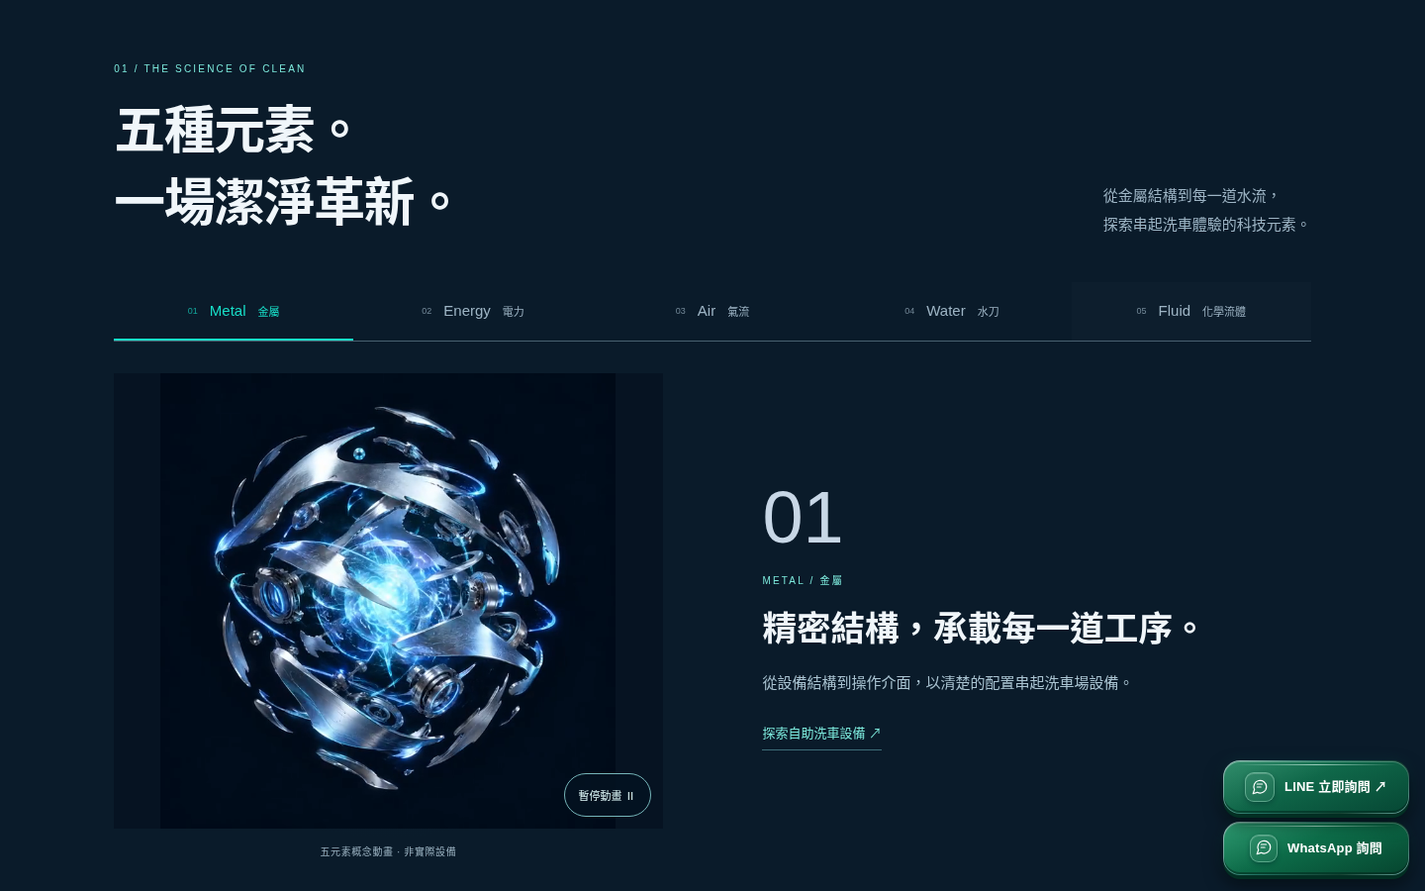
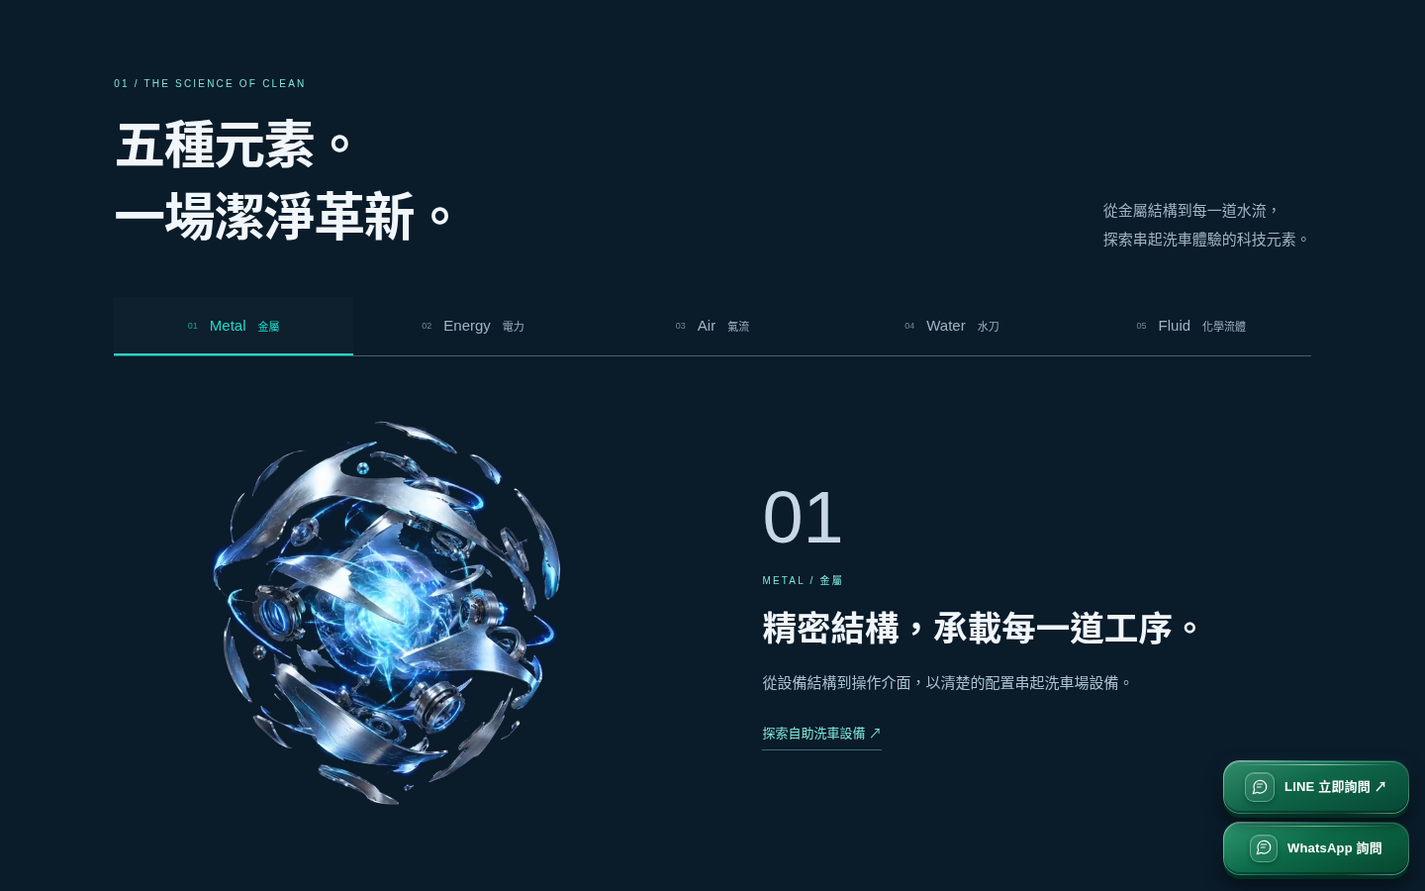
Blend element video backgrounds and remove captions and playback buttons

diff --git a/shinox-v2-site/index.html b/shinox-v2-site/index.html
@@ -1,6 +1,6 @@
 <!DOCTYPE html>
 
-<html lang="zh-Hant-TW"><head><meta charset="utf-8"/><meta content="width=device-width,initial-scale=1" name="viewport"/><meta content="noindex,nofollow" name="robots"/><link href="index.html" hreflang="zh-Hant" rel="alternate"/><link href="en/index.html" hreflang="en" rel="alternate"/><meta content="#061322" name="theme-color"/><meta content="ShinoX 洗諾克斯洗車系統：探索自助洗車設備、B2 與 M9 洗車設備、周邊設備及洗車場建置方案。聯絡台灣與海外設備諮詢。" name="description"/><meta content="ShinoX 洗諾克斯｜科技驅動潔淨未來" property="og:title"/><meta content="以科技與系統整合，探索洗車設備與場域配置。" property="og:description"/><meta content="website" property="og:type"/><meta content="zh_TW" property="og:locale"/><title>ShinoX 洗諾克斯｜科技驅動潔淨未來</title><link href="media/LOGO-03.png" rel="icon"/><link href="site.css" rel="stylesheet"/><link href="visual-overrides.css" rel="stylesheet"/><script defer="" src="media-player.js"></script><script defer="" src="site.js"></script><link href="whatsapp.css" rel="stylesheet"/><link href="calculator-gate.css" rel="stylesheet"/><link href="element-videos.css" rel="stylesheet"/></head><body><a class="skip" href="#technology">跳至主要內容</a><header class="head"><a aria-label="ShinoX 首頁" class="brand" href="index.html"><img alt="ShinoX" height="64" src="media/LOGO-01.png" width="220"/></a><button aria-controls="nav" aria-expanded="false" aria-label="開啟導覽選單" class="toggle">選單 <span aria-hidden="true">☰</span></button><nav aria-label="主導覽" class="nav" id="nav"><a aria-current="page" href="index.html">首頁</a><a href="about.html">品牌介紹</a><a href="news.html">最新消息</a><a href="products.html">產品方案</a><a href="business.html">事業方案</a><a href="projects.html">專案案例</a><a href="contact.html">聯絡我們</a><a href="#downloads">資料下載</a><a aria-label="English website" href="en/index.html" lang="en">EN</a></nav><a class="head-contact" href="contact.html">立即諮詢 ↗</a></header><main><section aria-labelledby="hero-title" class="hero" id="home"><div aria-hidden="true" class="poster"></div><video aria-hidden="true" class="hero-video" loop="" muted="" playsinline="" poster="media/shinox-poster.jpg" preload="none"></video><div class="hero-copy"><p class="eyebrow">SHINOX CAR WASH SYSTEMS</p><h1 id="hero-title">科技驅動<br/><span>潔淨未來。</span></h1><p class="hero-lead">以創新科技與系統整合，重新定義洗車體驗。<br class="desktop-break"/>從智慧自助洗車到自動洗車設備，<br class="desktop-break"/>打造更有效率的洗車事業。</p><div class="actions"><a class="btn primary" href="products.html">探索產品方案 <span>↗</span></a><a class="btn" href="contact.html">立即聯絡我們 <span>↗</span></a></div></div><a class="scroll-cue" href="#technology"><span></span> SCROLL TO EXPLORE ↓</a><button aria-label="播放背景影片" class="video-control" type="button">播放影片 ▷</button></section><section class="section elements" id="technology"><div class="section-intro"><div><p class="eyebrow">01 / THE SCIENCE OF CLEAN</p><h2>五種元素。<br/>一場潔淨革新。</h2></div><p class="intro-desc">從金屬結構到每一道水流，<br/>探索串起洗車體驗的科技元素。</p></div><div aria-label="五元素科技" class="element-tabs" role="tablist"><button aria-controls="panel-metal" aria-selected="true" id="tab-metal" role="tab" tabindex="0" type="button"><small>01</small>Metal<span>金屬</span></button><button aria-controls="panel-energy" aria-selected="false" id="tab-energy" role="tab" tabindex="-1" type="button"><small>02</small>Energy<span>電力</span></button><button aria-controls="panel-air" aria-selected="false" id="tab-air" role="tab" tabindex="-1" type="button"><small>03</small>Air<span>氣流</span></button><button aria-controls="panel-water" aria-selected="false" id="tab-water" role="tab" tabindex="-1" type="button"><small>04</small>Water<span>水刀</span></button><button aria-controls="panel-fluid" aria-selected="false" id="tab-fluid" role="tab" tabindex="-1" type="button"><small>05</small>Fluid<span>化學流體</span></button></div><div aria-labelledby="tab-metal" id="panel-metal" role="tabpanel"><div class="element-stage"><figure class="element-art"><video aria-label="金屬碎片球概念動畫" class="element-video" data-element-src="lassets/elements/metal.mp4" height="720" loop="" muted="" playsinline="" poster="lassets/elements/metal.webp" preload="none" width="720"></video><figcaption>五元素概念動畫 · 非實際設備</figcaption><button aria-label="播放金屬碎片球動畫" class="element-playback" type="button">播放動畫 ▷</button></figure><div class="element-copy"><span class="element-number">01</span><p class="eyebrow">METAL / 金屬</p><h3>精密結構，承載每一道工序。</h3><p>從設備結構到操作介面，以清楚的配置串起洗車場設備。</p><a class="text-link" href="#category-self">探索自助洗車設備 ↗</a></div></div></div><div aria-labelledby="tab-energy" hidden="" id="panel-energy" role="tabpanel"><div class="element-stage"><figure class="element-art"><video aria-label="電光能量球概念動畫" class="element-video" data-element-src="lassets/elements/energy.mp4" height="720" loop="" muted="" playsinline="" poster="lassets/elements/energy.webp" preload="none" width="720"></video><figcaption>五元素概念動畫 · 非實際設備</figcaption><button aria-label="播放電光能量球動畫" class="element-playback" type="button">播放動畫 ▷</button></figure><div class="element-copy"><span class="element-number">02</span><p class="eyebrow">ENERGY / 電力</p><h3>串連操作與支付的每一刻。</h3><p>探索控制箱、儲值機與繳費設備，依場域需求討論操作及支付配置。</p><a class="text-link" href="#category-self">探索自助洗車設備 ↗</a></div></div></div><div aria-labelledby="tab-air" hidden="" id="panel-air" role="tabpanel"><div class="element-stage"><figure class="element-art"><video aria-label="白色氣流球概念動畫" class="element-video" data-element-src="lassets/elements/air.mp4" height="720" loop="" muted="" playsinline="" poster="lassets/elements/air.webp" preload="none" width="720"></video><figcaption>五元素概念動畫 · 非實際設備</figcaption><button aria-label="播放白色氣流球動畫" class="element-playback" type="button">播放動畫 ▷</button></figure><div class="element-copy"><span class="element-number">03</span><p class="eyebrow">AIR / 氣流</p><h3>讓氣流成為清潔的延伸。</h3><p>從空氣噴槍到吹水設備，為不同清潔流程選擇合適的周邊配置。</p><a class="text-link" href="#category-peripheral">探索周邊設備 ↗</a></div></div></div><div aria-labelledby="tab-water" hidden="" id="panel-water" role="tabpanel"><div class="element-stage"><figure class="element-art"><video aria-label="藍色水流球概念動畫" class="element-video" data-element-src="lassets/elements/water.mp4" height="720" loop="" muted="" playsinline="" poster="lassets/elements/water.webp" preload="none" width="720"></video><figcaption>五元素概念動畫 · 非實際設備</figcaption><button aria-label="播放藍色水流球動畫" class="element-playback" type="button">播放動畫 ▷</button></figure><div class="element-copy"><span class="element-number">04</span><p class="eyebrow">WATER / 水刀</p><h3>以水，展開潔淨流程。</h3><p>從水處理到洗車設備，整合場地與設備需求，規劃完整洗車動線。</p><a class="text-link" href="#category-wash">探索洗車設備 ↗</a></div></div></div><div aria-labelledby="tab-fluid" hidden="" id="panel-fluid" role="tabpanel"><div class="element-stage"><figure class="element-art"><video aria-label="彩色流體球概念動畫" class="element-video" data-element-src="lassets/elements/fluid.mp4" height="720" loop="" muted="" playsinline="" poster="lassets/elements/fluid.webp" preload="none" width="720"></video><figcaption>五元素概念動畫 · 非實際設備</figcaption><button aria-label="播放彩色流體球動畫" class="element-playback" type="button">播放動畫 ▷</button></figure><div class="element-copy"><span class="element-number">05</span><p class="eyebrow">FLUID / 化學流體</p><h3>為每一道清潔步驟找到配置。</h3><p>泡沫、清潔及鍍膜功能須依實際設備與最終功能配置確認。</p><a class="text-link" href="#category-self">探索自助洗車設備 ↗</a></div></div></div></section><section class="section about" id="about"><p class="eyebrow">02 / ABOUT SHINOX</p><div class="about-grid"><h2>讓設備、場地與營運，<br/><span class="quiet">在同一個方向前進。</span></h2><div><p class="body-large">ShinoX 洗諾克斯專注洗車設備與系統整合，從自助洗車、洗車設備到場域規劃，讓每個建場決定都有清楚的討論起點。</p><p class="muted">以場地條件與實際需求出發，串接設備選型、配置與建置討論。台灣與海外設備需求，皆可由專人協助確認。</p><a class="text-link" href="business.html">了解事業方案 ↗</a></div></div><div class="principles"><div><small>01 / EQUIPMENT</small><h3>從設備出發</h3><p>釐清清潔流程、操作及支付需求。</p></div><div><small>02 / INTEGRATION</small><h3>以整合思考</h3><p>一起討論設備配置與場地動線。</p></div><div><small>03 / CONVERSATION</small><h3>讓需求先被理解</h3><p>台灣建場與海外詢價，從專業對話開始。</p></div></div></section><section class="section products" id="products"><div class="section-intro"><div><p class="eyebrow">03 / PRODUCT SOLUTIONS</p><h2>每個環節，<br/>找到合適的設備。</h2></div><p class="intro-desc">三大類別，十五項設備。<br/>從水處理、洗車流程到場域周邊。</p></div><div aria-label="三大設備分類" class="shinox-visual-categories">
+<html lang="zh-Hant-TW"><head><meta charset="utf-8"/><meta content="width=device-width,initial-scale=1" name="viewport"/><meta content="noindex,nofollow" name="robots"/><link href="index.html" hreflang="zh-Hant" rel="alternate"/><link href="en/index.html" hreflang="en" rel="alternate"/><meta content="#061322" name="theme-color"/><meta content="ShinoX 洗諾克斯洗車系統：探索自助洗車設備、B2 與 M9 洗車設備、周邊設備及洗車場建置方案。聯絡台灣與海外設備諮詢。" name="description"/><meta content="ShinoX 洗諾克斯｜科技驅動潔淨未來" property="og:title"/><meta content="以科技與系統整合，探索洗車設備與場域配置。" property="og:description"/><meta content="website" property="og:type"/><meta content="zh_TW" property="og:locale"/><title>ShinoX 洗諾克斯｜科技驅動潔淨未來</title><link href="media/LOGO-03.png" rel="icon"/><link href="site.css" rel="stylesheet"/><link href="visual-overrides.css" rel="stylesheet"/><script defer="" src="media-player.js"></script><script defer="" src="site.js"></script><link href="whatsapp.css" rel="stylesheet"/><link href="calculator-gate.css" rel="stylesheet"/><link href="element-videos.css" rel="stylesheet"/></head><body><a class="skip" href="#technology">跳至主要內容</a><header class="head"><a aria-label="ShinoX 首頁" class="brand" href="index.html"><img alt="ShinoX" height="64" src="media/LOGO-01.png" width="220"/></a><button aria-controls="nav" aria-expanded="false" aria-label="開啟導覽選單" class="toggle">選單 <span aria-hidden="true">☰</span></button><nav aria-label="主導覽" class="nav" id="nav"><a aria-current="page" href="index.html">首頁</a><a href="about.html">品牌介紹</a><a href="news.html">最新消息</a><a href="products.html">產品方案</a><a href="business.html">事業方案</a><a href="projects.html">專案案例</a><a href="contact.html">聯絡我們</a><a href="#downloads">資料下載</a><a aria-label="English website" href="en/index.html" lang="en">EN</a></nav><a class="head-contact" href="contact.html">立即諮詢 ↗</a></header><main><section aria-labelledby="hero-title" class="hero" id="home"><div aria-hidden="true" class="poster"></div><video aria-hidden="true" class="hero-video" loop="" muted="" playsinline="" poster="media/shinox-poster.jpg" preload="none"></video><div class="hero-copy"><p class="eyebrow">SHINOX CAR WASH SYSTEMS</p><h1 id="hero-title">科技驅動<br/><span>潔淨未來。</span></h1><p class="hero-lead">以創新科技與系統整合，重新定義洗車體驗。<br class="desktop-break"/>從智慧自助洗車到自動洗車設備，<br class="desktop-break"/>打造更有效率的洗車事業。</p><div class="actions"><a class="btn primary" href="products.html">探索產品方案 <span>↗</span></a><a class="btn" href="contact.html">立即聯絡我們 <span>↗</span></a></div></div><a class="scroll-cue" href="#technology"><span></span> SCROLL TO EXPLORE ↓</a><button aria-label="播放背景影片" class="video-control" type="button">播放影片 ▷</button></section><section class="section elements" id="technology"><div class="section-intro"><div><p class="eyebrow">01 / THE SCIENCE OF CLEAN</p><h2>五種元素。<br/>一場潔淨革新。</h2></div><p class="intro-desc">從金屬結構到每一道水流，<br/>探索串起洗車體驗的科技元素。</p></div><div aria-label="五元素科技" class="element-tabs" role="tablist"><button aria-controls="panel-metal" aria-selected="true" id="tab-metal" role="tab" tabindex="0" type="button"><small>01</small>Metal<span>金屬</span></button><button aria-controls="panel-energy" aria-selected="false" id="tab-energy" role="tab" tabindex="-1" type="button"><small>02</small>Energy<span>電力</span></button><button aria-controls="panel-air" aria-selected="false" id="tab-air" role="tab" tabindex="-1" type="button"><small>03</small>Air<span>氣流</span></button><button aria-controls="panel-water" aria-selected="false" id="tab-water" role="tab" tabindex="-1" type="button"><small>04</small>Water<span>水刀</span></button><button aria-controls="panel-fluid" aria-selected="false" id="tab-fluid" role="tab" tabindex="-1" type="button"><small>05</small>Fluid<span>化學流體</span></button></div><div aria-labelledby="tab-metal" id="panel-metal" role="tabpanel"><div class="element-stage"><figure class="element-art"><video aria-label="金屬碎片球概念動畫" class="element-video" data-element-src="lassets/elements/metal.mp4" height="720" loop="" muted="" playsinline="" poster="lassets/elements/metal.webp" preload="none" width="720"></video></figure><div class="element-copy"><span class="element-number">01</span><p class="eyebrow">METAL / 金屬</p><h3>精密結構，承載每一道工序。</h3><p>從設備結構到操作介面，以清楚的配置串起洗車場設備。</p><a class="text-link" href="#category-self">探索自助洗車設備 ↗</a></div></div></div><div aria-labelledby="tab-energy" hidden="" id="panel-energy" role="tabpanel"><div class="element-stage"><figure class="element-art"><video aria-label="電光能量球概念動畫" class="element-video" data-element-src="lassets/elements/energy.mp4" height="720" loop="" muted="" playsinline="" poster="lassets/elements/energy.webp" preload="none" width="720"></video></figure><div class="element-copy"><span class="element-number">02</span><p class="eyebrow">ENERGY / 電力</p><h3>串連操作與支付的每一刻。</h3><p>探索控制箱、儲值機與繳費設備，依場域需求討論操作及支付配置。</p><a class="text-link" href="#category-self">探索自助洗車設備 ↗</a></div></div></div><div aria-labelledby="tab-air" hidden="" id="panel-air" role="tabpanel"><div class="element-stage"><figure class="element-art"><video aria-label="白色氣流球概念動畫" class="element-video" data-element-src="lassets/elements/air.mp4" height="720" loop="" muted="" playsinline="" poster="lassets/elements/air.webp" preload="none" width="720"></video></figure><div class="element-copy"><span class="element-number">03</span><p class="eyebrow">AIR / 氣流</p><h3>讓氣流成為清潔的延伸。</h3><p>從空氣噴槍到吹水設備，為不同清潔流程選擇合適的周邊配置。</p><a class="text-link" href="#category-peripheral">探索周邊設備 ↗</a></div></div></div><div aria-labelledby="tab-water" hidden="" id="panel-water" role="tabpanel"><div class="element-stage"><figure class="element-art"><video aria-label="藍色水流球概念動畫" class="element-video" data-element-src="lassets/elements/water.mp4" height="720" loop="" muted="" playsinline="" poster="lassets/elements/water.webp" preload="none" width="720"></video></figure><div class="element-copy"><span class="element-number">04</span><p class="eyebrow">WATER / 水刀</p><h3>以水，展開潔淨流程。</h3><p>從水處理到洗車設備，整合場地與設備需求，規劃完整洗車動線。</p><a class="text-link" href="#category-wash">探索洗車設備 ↗</a></div></div></div><div aria-labelledby="tab-fluid" hidden="" id="panel-fluid" role="tabpanel"><div class="element-stage"><figure class="element-art"><video aria-label="彩色流體球概念動畫" class="element-video" data-element-src="lassets/elements/fluid.mp4" height="720" loop="" muted="" playsinline="" poster="lassets/elements/fluid.webp" preload="none" width="720"></video></figure><div class="element-copy"><span class="element-number">05</span><p class="eyebrow">FLUID / 化學流體</p><h3>為每一道清潔步驟找到配置。</h3><p>泡沫、清潔及鍍膜功能須依實際設備與最終功能配置確認。</p><a class="text-link" href="#category-self">探索自助洗車設備 ↗</a></div></div></div></section><section class="section about" id="about"><p class="eyebrow">02 / ABOUT SHINOX</p><div class="about-grid"><h2>讓設備、場地與營運，<br/><span class="quiet">在同一個方向前進。</span></h2><div><p class="body-large">ShinoX 洗諾克斯專注洗車設備與系統整合，從自助洗車、洗車設備到場域規劃，讓每個建場決定都有清楚的討論起點。</p><p class="muted">以場地條件與實際需求出發，串接設備選型、配置與建置討論。台灣與海外設備需求，皆可由專人協助確認。</p><a class="text-link" href="business.html">了解事業方案 ↗</a></div></div><div class="principles"><div><small>01 / EQUIPMENT</small><h3>從設備出發</h3><p>釐清清潔流程、操作及支付需求。</p></div><div><small>02 / INTEGRATION</small><h3>以整合思考</h3><p>一起討論設備配置與場地動線。</p></div><div><small>03 / CONVERSATION</small><h3>讓需求先被理解</h3><p>台灣建場與海外詢價，從專業對話開始。</p></div></div></section><section class="section products" id="products"><div class="section-intro"><div><p class="eyebrow">03 / PRODUCT SOLUTIONS</p><h2>每個環節，<br/>找到合適的設備。</h2></div><p class="intro-desc">三大類別，十五項設備。<br/>從水處理、洗車流程到場域周邊。</p></div><div aria-label="三大設備分類" class="shinox-visual-categories">
 <a class="shinox-category-visual" href="products.html#category-self"><div class="shinox-category-image"><img alt="智慧自助洗車控制設備 CGI 概念視覺，不代表特定型號實際外觀" decoding="async" height="760" loading="lazy" src="lassets/brand/self-service.svg" width="1200"/></div><div class="shinox-category-content"><span class="shinox-category-en">01 / SELF-SERVICE SYSTEMS</span><h3>自助洗車設備</h3><p>從控制、儲值到水處理，整合經營必備設備。</p><span class="shinox-pill-link">探索產品 <b aria-hidden="true">↗</b></span></div></a>
 <a class="shinox-category-visual" href="products.html#category-wash"><div class="shinox-category-image"><img alt="自動洗車門架 CGI 概念視覺，非 B2、M9 實機照片" decoding="async" height="760" loading="lazy" src="lassets/brand/automatic-wash.svg" width="1200"/></div><div class="shinox-category-content"><span class="shinox-category-en">02 / AUTOMATIC WASH</span><h3>水刀洗車設備</h3><p>B2 與 M9 系列，探索適合場域的無接觸洗車方案。</p><span class="shinox-pill-link">探索產品 <b aria-hidden="true">↗</b></span></div></a>
 <a class="shinox-category-visual" href="products.html#category-peripheral"><div class="shinox-category-image"><img alt="洗車場周邊設備展示 CGI 概念視覺，非實機照片" decoding="async" height="760" loading="lazy" src="lassets/brand/accessories.svg" width="1200"/></div><div class="shinox-category-content"><span class="shinox-category-en">03 / PERIPHERAL EQUIPMENT</span><h3>洗車場周邊設備</h3><p>吸塵、空氣、臭氧與販賣設備，完善每個服務環節。</p><span class="shinox-pill-link">探索產品 <b aria-hidden="true">↗</b></span></div></a>

diff --git a/shinox-v2-site/element-videos.js b/shinox-v2-site/element-videos.js
@@ -1,20 +1,19 @@
-/* User-provided element clips. Only the selected, visible clip can autoplay. */
+/* Only the selected, visible user-provided element clip plays. */
 (() => {
  const section=document.querySelector('#technology');if(!section)return;
  const clips=[...section.querySelectorAll('.element-video')];
  const motion=matchMedia('(prefers-reduced-motion: reduce)');
  const connection=navigator.connection;
  const limited=()=>connection&&(connection.saveData||['slow-2g','2g'].includes(connection.effectiveType));
- let visible=false;const stopped=new WeakSet();
- function sync(video){const button=video.parentElement.querySelector('.element-playback');button.textContent=video.paused?'播放動畫 ▷':'暫停動畫 Ⅱ';button.setAttribute('aria-label',(video.paused?'播放':'暫停')+video.getAttribute('aria-label'))}
- function play(video){if(video.error)video.load();if(!video.getAttribute('src'))video.src=video.dataset.elementSrc;video.muted=true;video.play().catch(()=>sync(video))}
- function update(){clips.forEach(video=>{const selected=!video.closest('[role="tabpanel"]').hidden;if(selected&&visible&&!document.hidden&&!motion.matches&&!limited()&&!stopped.has(video)){play(video)}else video.pause()})}
- clips.forEach(video=>{
-  video.muted=true;video.defaultMuted=true;video.loop=true;video.playsInline=true;
-  video.addEventListener('play',()=>sync(video));video.addEventListener('pause',()=>sync(video));
-  video.addEventListener('error',()=>{stopped.add(video);sync(video)});
-  video.parentElement.querySelector('.element-playback').addEventListener('click',()=>{if(video.paused){stopped.delete(video);play(video)}else{stopped.add(video);video.pause()}});
- });
+ let visible=false;
+ function update(){clips.forEach(video=>{
+  const selected=!video.closest('[role="tabpanel"]').hidden;
+  if(selected&&visible&&!document.hidden&&!motion.matches&&!limited()){
+   if(!video.getAttribute('src'))video.src=video.dataset.elementSrc;
+   video.play().catch(()=>{});
+  }else video.pause();
+ })}
+ clips.forEach(video=>{video.muted=true;video.defaultMuted=true;video.loop=true;video.playsInline=true});
  new IntersectionObserver(entries=>{visible=entries[0].isIntersecting&&entries[0].intersectionRatio>0;update()},{threshold:0.05}).observe(section);
  new MutationObserver(update).observe(section,{subtree:true,attributes:true,attributeFilter:['hidden']});
  document.addEventListener('visibilitychange',update);motion.addEventListener('change',update);

diff --git a/shinox-v2-site/element-videos.css b/shinox-v2-site/element-videos.css
@@ -1,1 +1,5 @@
-.element-art .element-video{display:block;width:100%;height:auto;aspect-ratio:1;max-height:460px;object-fit:contain;background:#061322;mix-blend-mode:normal}.element-art{padding-bottom:30px}.element-art figcaption{bottom:0}.element-playback{position:absolute;right:12px;bottom:42px;min-height:44px;padding:10px 14px;color:#dcf5f5;background:#041321d9;border:1px solid #75b5b9;border-radius:30px;font-size:11px;cursor:pointer}.element-playback:hover{background:#153d4a}.element-playback:focus-visible{outline:2px solid #17ddc7;outline-offset:4px}@media(max-width:600px){.element-art .element-video{max-height:350px}.element-playback{right:8px;bottom:40px}}
+/* Blend the dark video matte into the exact section background. */
+.elements{--element-backdrop:#0a1b2a;background:var(--element-backdrop)}
+.element-art{padding:0;background:var(--element-backdrop);isolation:isolate}
+.element-art .element-video{display:block;width:100%;height:auto;aspect-ratio:1;max-height:460px;object-fit:contain;background:transparent;mix-blend-mode:lighten}
+@media(max-width:600px){.element-art .element-video{max-height:350px}}

diff --git a/docs/FIVE_ELEMENT_VIDEOS.md b/docs/FIVE_ELEMENT_VIDEOS.md
@@ -12,4 +12,4 @@ The owner supplied five MP4 clips, replacing the old five-element still illustra
 
 Web copies are H.264 720×720, 24fps, no audio, faststart; source hashes are saved in lassets/elements/USER_VIDEO_MANIFEST.json. Matching WebP posters replace the old images.
 
-Only the selected visible element automatically plays. Hidden, offscreen and background-tab clips pause. Each clip has a pause/play button; reduced-motion or data-saver users see the new poster without automatic video downloads and can explicitly play it.
+Only the selected visible element automatically plays. Hidden, offscreen and background-tab clips pause. By owner request the caption and pause/play buttons are removed. Reduced-motion or data-saver users see the new poster without automatic video downloads. A lighten blend removes the darker video matte into the section background (#0a1b2a).
